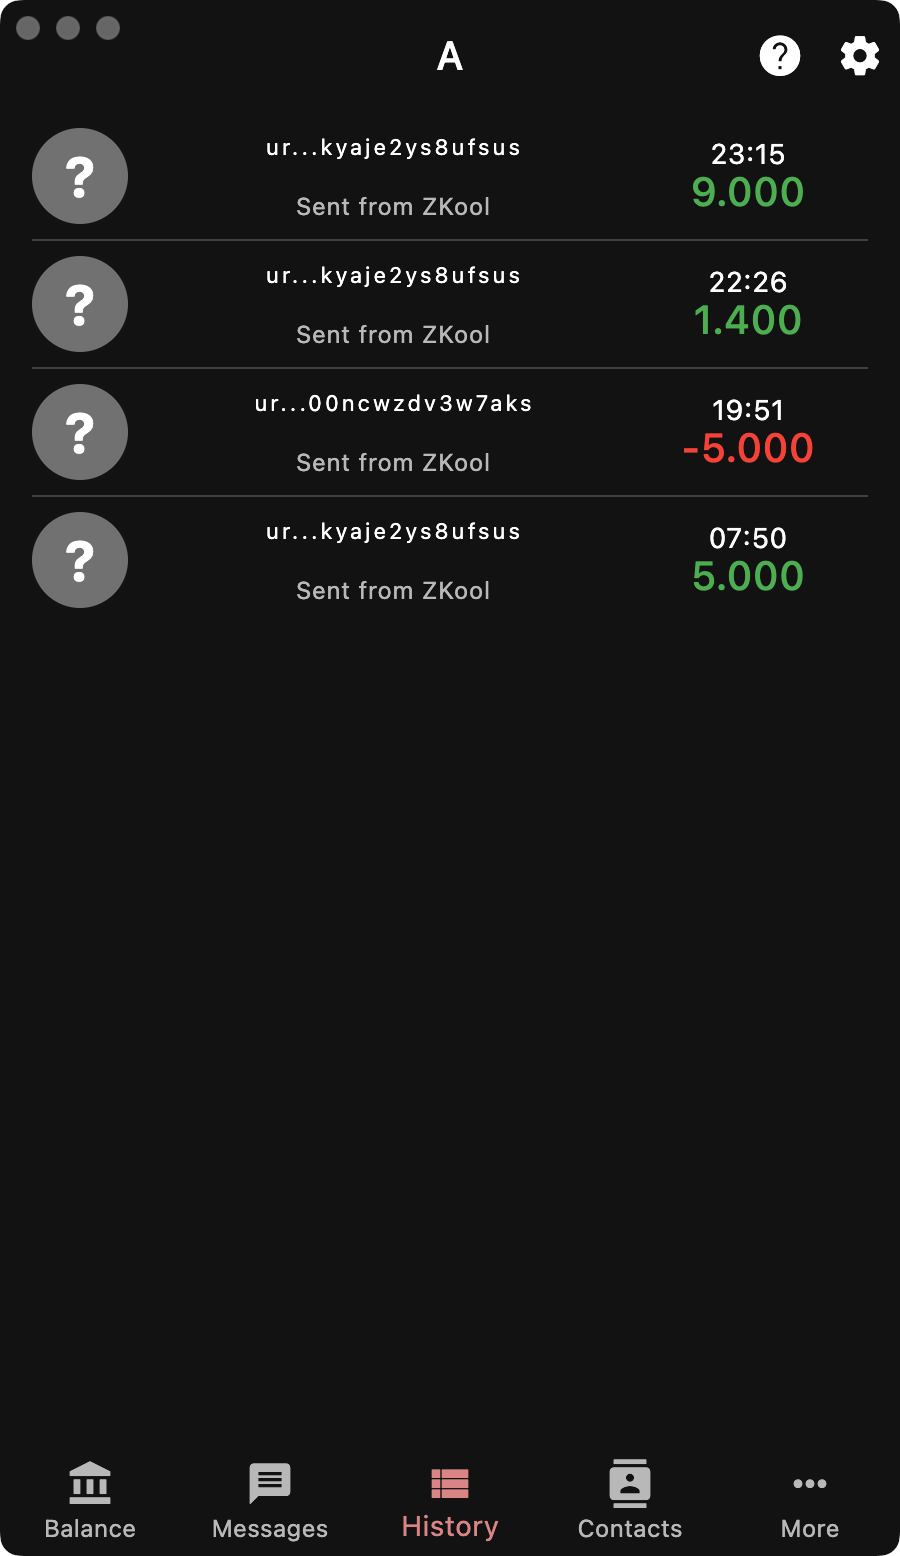
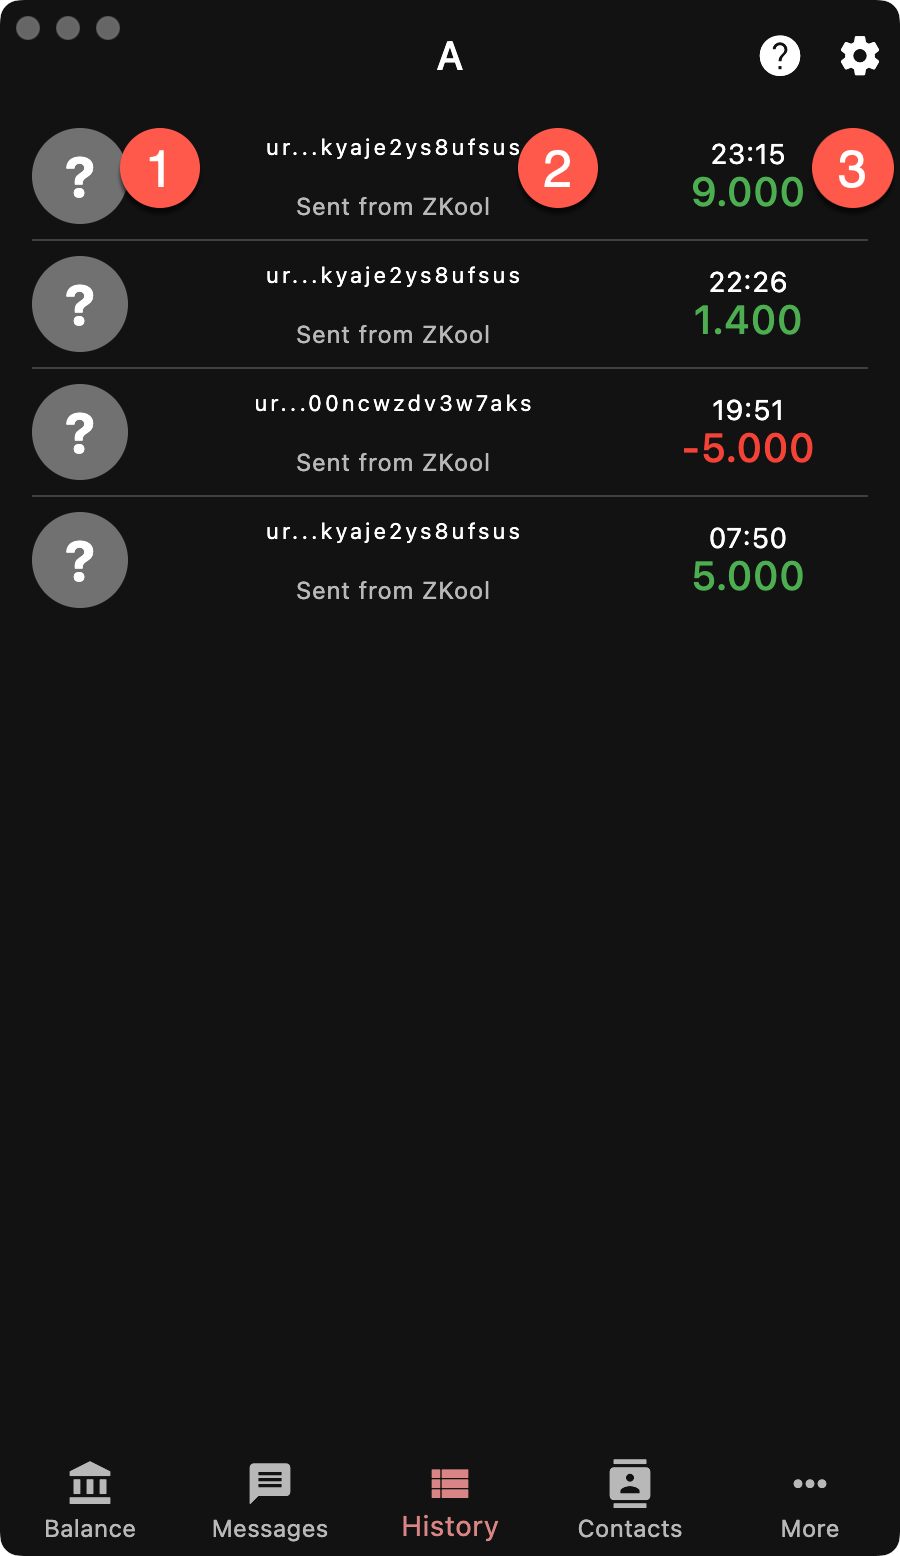
Basic Usage section

Changed region(s): [[0.9022, 0.0617, 0.9956, 0.1542], [0.56, 0.0617, 0.6844, 0.1542], [0.1244, 0.0617, 0.2178, 0.1542]]

diff --git a/src/basic/backup.md b/src/basic/backup.md
@@ -1,0 +1,46 @@
+# Backups
+
+```admonish warning
+Making a backup of the seed phrase is
+the **MOST IMPORTANT** thing to do.
+```
+
+Without the 24-word seed phrase, there is
+no way to recover your funds if you happen
+to lose access to your device[^1].
+
+However, it is also important to remember that
+the seed phrase gives **full access** to the
+funds.
+
+```admonish warning
+Anyone with the seed phrase can spend all your funds.
+```
+
+There is no "customer service" support[^2] and
+no refunds possible.
+
+You must keep it in a safe place, away from
+unauthorized people.
+
+> Treat the seed phrase as your **master password**
+but without a "forgot my password" option.
+
+When you create a new account, the main page
+shows a reminder "BACKUP MISSING". It is a button
+that leads to the backup page.
+
+Over there, you will find the seed phrase.
+You can also access the backup page through
+the More tab, then "Seed & Keys"[^3].
+
+There is a toggle at the bottom of the page
+that turns off the reminder from the main page.
+
+---
+
+[^1]: It can happen in many ways. Your phone
+is stolen, breaks down, or the app is uninstalled.
+[^2]: Whoever pretends to be able to revert
+transactions is a scammer.
+[^3]: It will ask for your authentication.

diff --git a/src/basic/history.md b/src/basic/history.md
@@ -1,3 +1,39 @@
 # Transaction History
 
 ![History]({{rootUrl}}/images/2024-11-06_23-18-21.png "home" =450x)
+
+1. Initial of the sender or recipient (when known[^1])
+1. Address and message
+1. Date/Time and amount
+
+```admonish tip
+You can switch to a table display by switching to
+landscape mode (by rotating your device/phone, or by resizing
+the window)[^2].
+```
+
+## Transaction Details
+
+Tapping on a transaction will show you its details.
+The information is detailed in the section
+[Transaction Details](../advanced/tx_details.md).
+The main fields are the following:
+- TXID, the transaction ID
+- Timestamp
+- Amount
+- Number of Confirmations: How many blocks are after the one
+that included the transaction[^3]
+- Memo/Message
+
+## Messages
+
+Memos are gathered in a dedicated tab for easier navigation.
+
+---
+[^1]: The source of the funds may be hidden. 
+When the funds come from a shielded address, the protocol
+hides it from the recipient. Also, it is possible to send to a
+shielded address and then "forget" about it. It is rare but allowed
+by the protocol.
+[^2]: You can also manually change it in the settings.
+[^3]: +1 since the block that includes the transaction counts as 1.

diff --git a/src/basic/contact.md b/src/basic/contact.md
@@ -1,0 +1,16 @@
+# Address Book
+
+![Home Page]({{rootUrl}}/images/2024-11-07_08-14-06.png "contacts" =450x)
+
+1. List of contacts by name
+1. Buttons to save and add new contacts
+
+Saving the contacts writes the address to the blockchain.
+You can edit and delete contacts by *long* pressing/tapping
+on it. It switches the list to *Edit* mode.
+
+Don't forget to save your modifications if you want them
+kept across devices.
+
+The address book stores addresses and matches their *receivers*.
+See [Addresses](../intermediate/address.md) for more information.

diff --git a/src/SUMMARY.md b/src/SUMMARY.md
@@ -6,5 +6,10 @@
     - [Receive Funds](basic/payment_uri.md)
     - [Send Funds](basic/send.md)
     - [Transaction History](basic/history.md)
-    - [Contacts]()
-    - [Backups]()
+    - [Address Book](basic/contact.md)
+    - [Backups](basic/backup.md)
+- [Intermediate]()
+    - [Addresses](intermediate/address.md)
+- [Advanced]()
+    - [Keys](advanced/keys.md)
+    - [Transaction Details](advanced/tx_details.md)

diff --git a/src/basic/new_account.md b/src/basic/new_account.md
@@ -18,5 +18,5 @@ start (and take **hours**).
 ```
 
 ---
-[^1]: See [Keys]() for the supported key types
+[^1]: See [Keys](../advanced/keys.md) for the supported key types
 [^2]: Some exchanges prohibit using shielded addresses

diff --git a/src/advanced/tx_details.md b/src/advanced/tx_details.md
@@ -1,0 +1,1 @@
+# Transaction Details

diff --git a/src/intermediate/address.md b/src/intermediate/address.md
@@ -1,0 +1,1 @@
+# Addresses

diff --git a/src/advanced/keys.md b/src/advanced/keys.md
@@ -1,0 +1,1 @@
+# Keys
